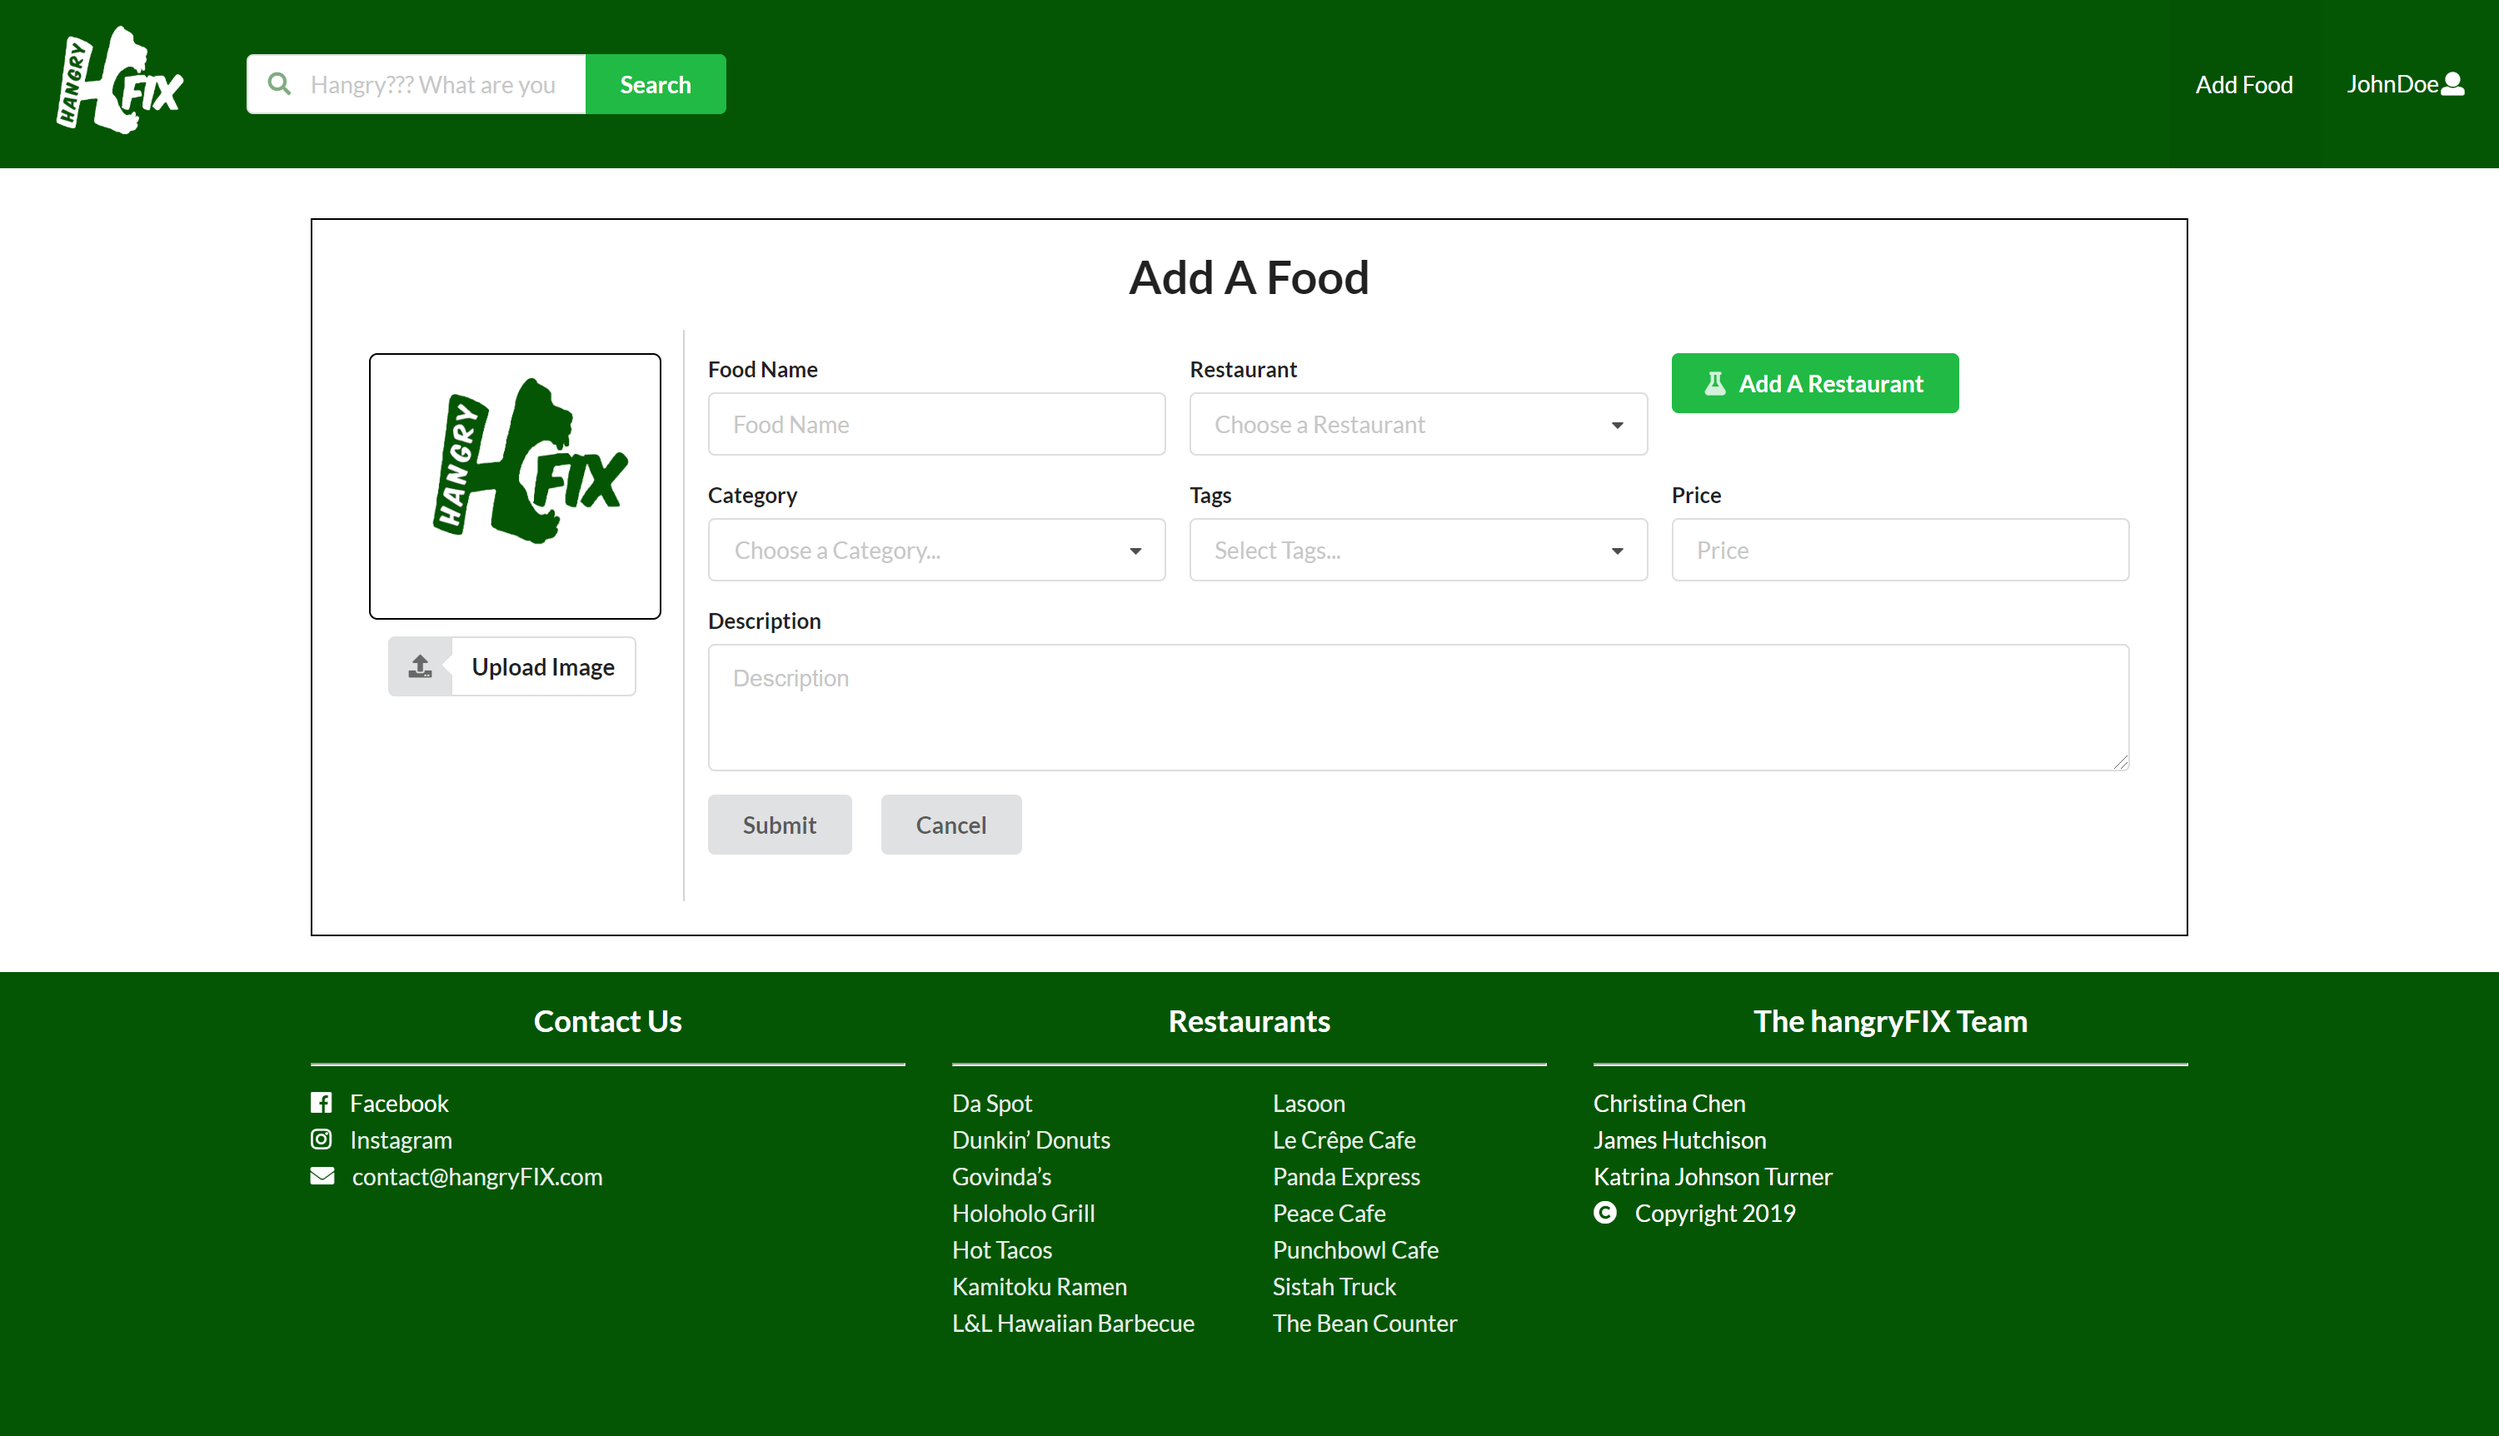
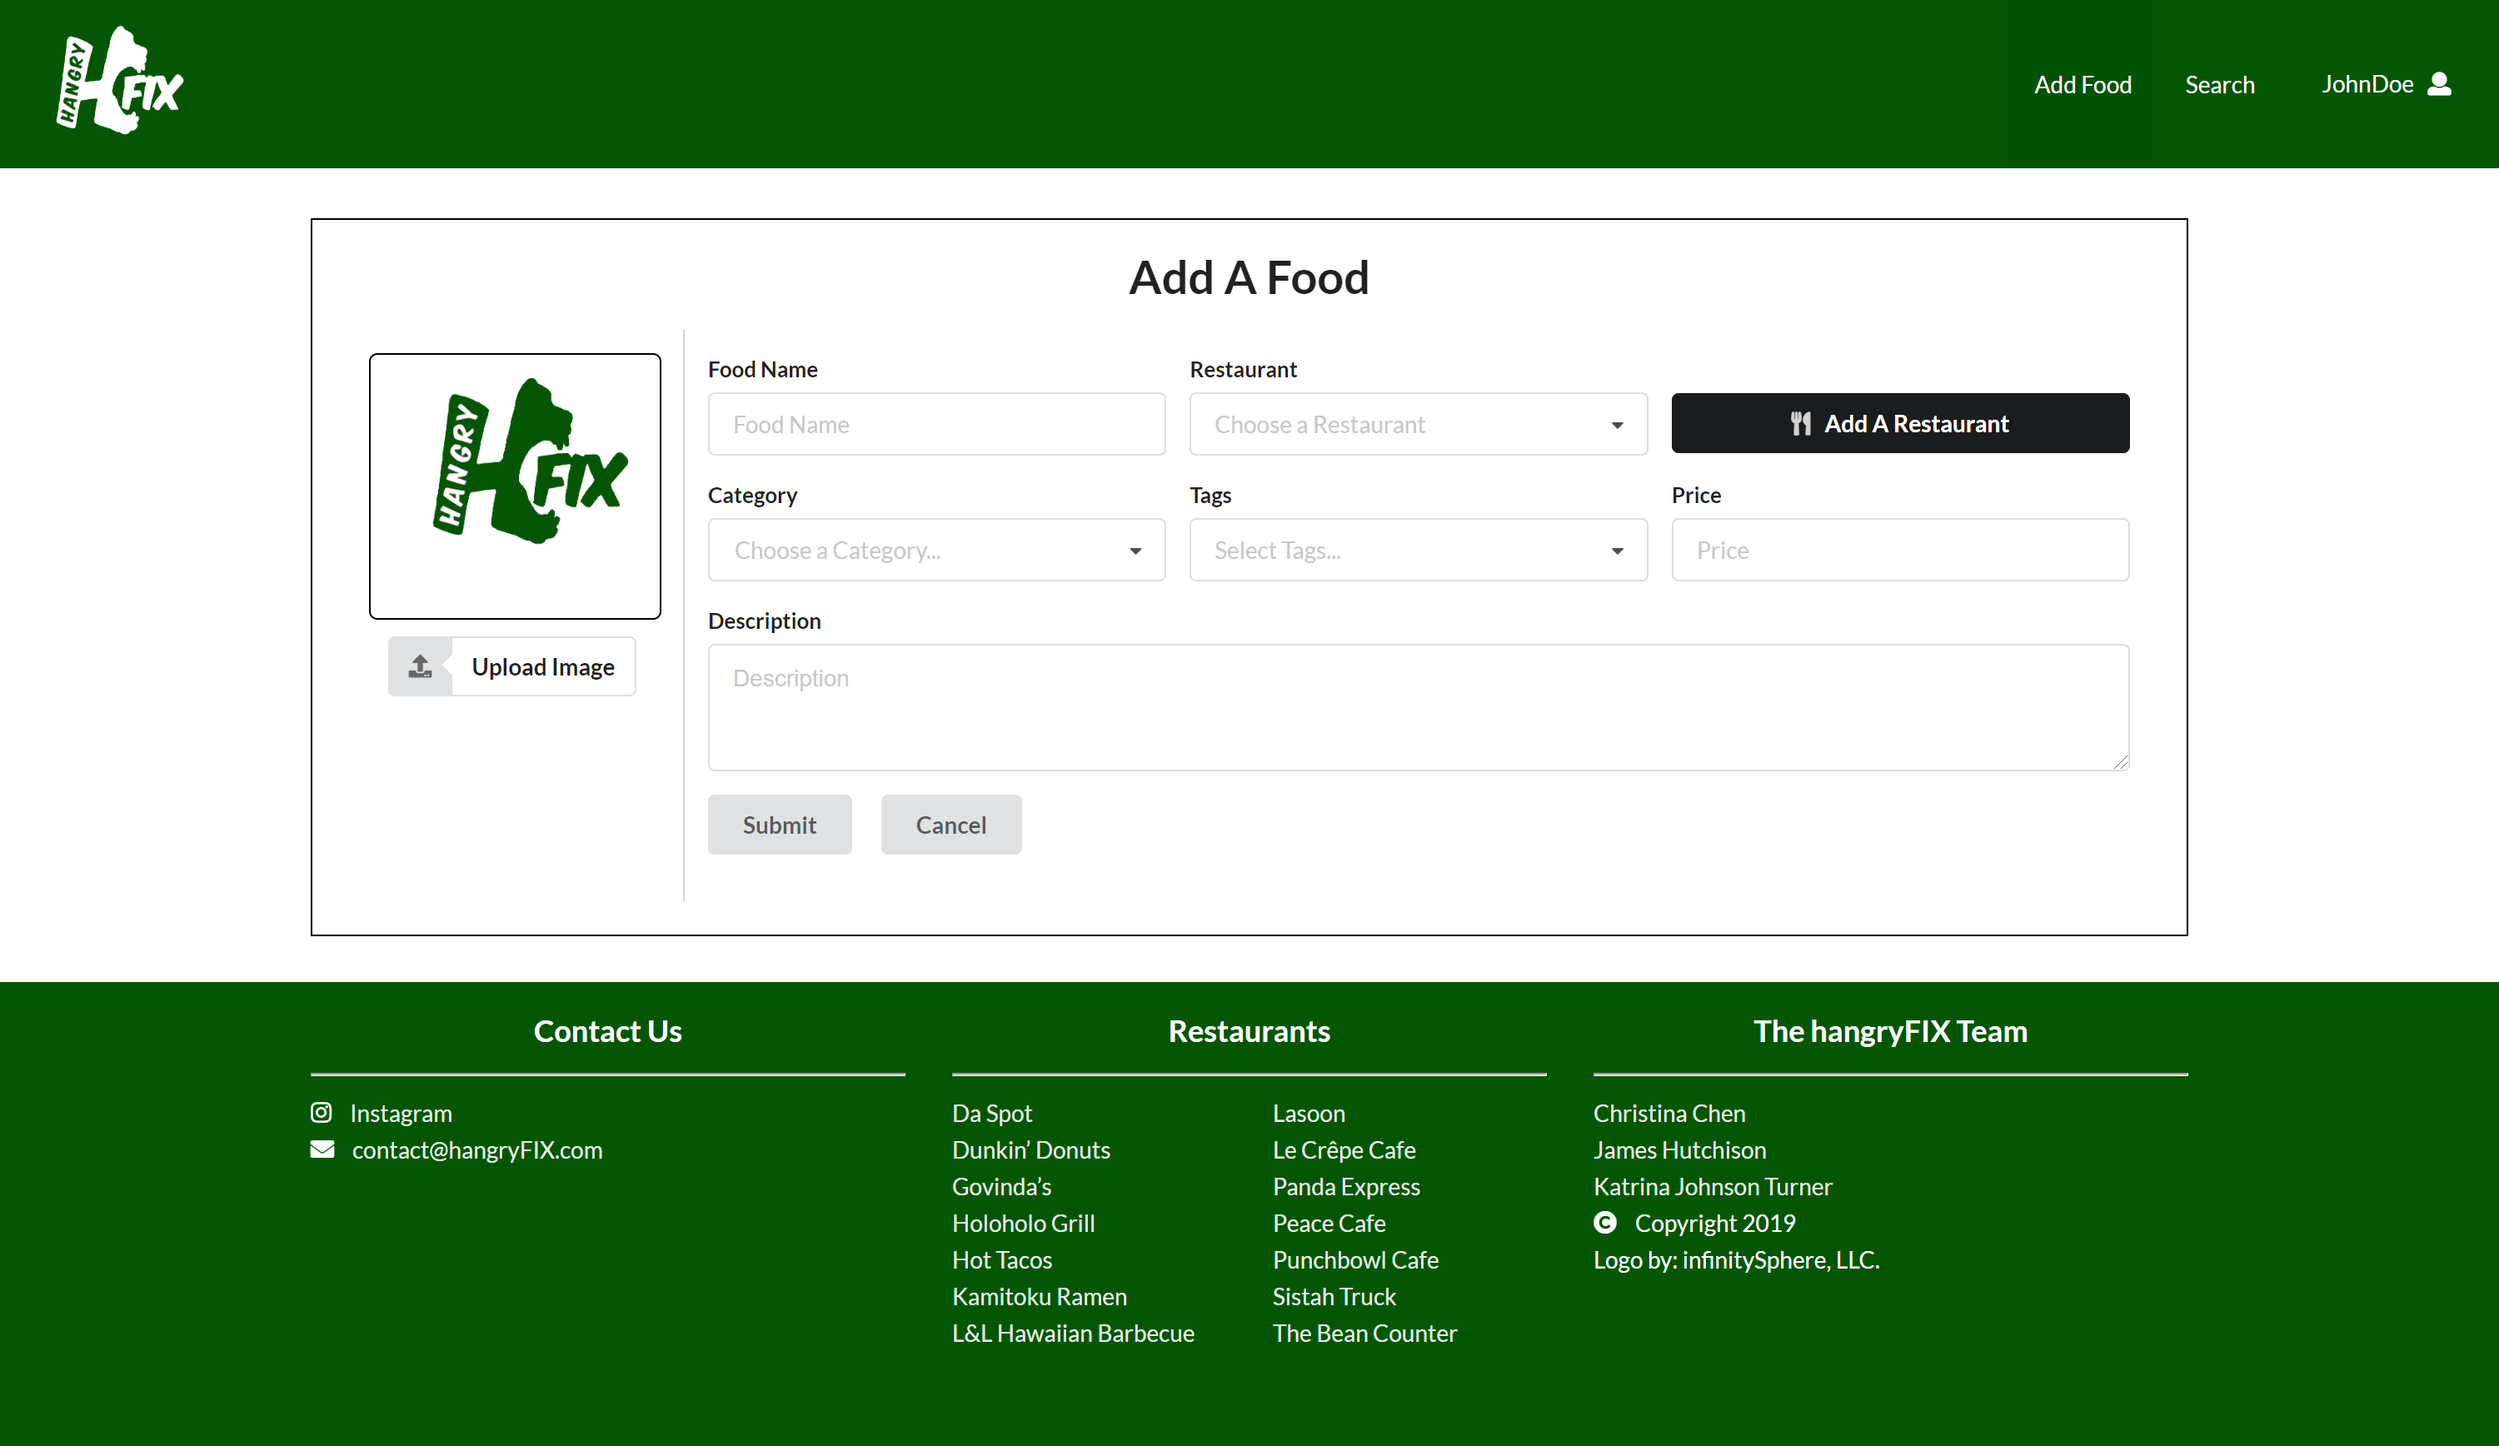
updated user guide section

diff --git a/index.md b/index.md
@@ -24,7 +24,6 @@
 <img style="width: 80%" src="doc/hf-landing2.png">
 <p>There are many restaurant review sites (i.e. Yelp), but students often crave a specific food item rather than a genre or restaurant.</p> 
 <p>hangryFIX is a way for UHM students to publicize, rate, and search for specific food items. Ratings will revolve around food items rather than overall restaurant quality, service, etc.</p>
-<p>Users can also allow email and SMS notifications on their account on new locations for selected foods.</p>
 <div>
 <a href="http://hangryfix.meteorapp.com/#/"><button>Go to App</button></a>
 <a href="https://github.com/hangryfix/hangryfix/projects"><button>Go to Project Board</button></a>
@@ -38,7 +37,7 @@
 
 <h3 id="landingPage">Landing Page</h3>
 <img style="width: 80%" src="doc/hf-landing.png">
-<p>The landing page will displays recent food items and their ratings, and it will also explain the purpose and mission of the site.  To prevent hangryness. From here, users can use the Nav Bar to log in, register, and do a quick search of the foods by category.</p>
+<p>The landing page displays the three most recent food items along with their reviews along the purpose and goal--essentially, to prevent hangryness--of this application. Through the navigation bar, users can log in to their accounts and register for one. Any visitor to the site can start searching for foods from the landing page by clicking on the respective icon for a food category they're currently hangry for.</p>
 <a href="http://hangryfix.meteorapp.com/#/"><button>Go to page</button></a>
 <br>
 
@@ -46,36 +45,36 @@
 <img style="width: 45%" src="doc/hf_register.png">
 <img style="width: 45%" src="doc/hf_signin.png">
 
-<p>Before users can add foods or leave reviews, they must create an account.  They can add tags associated with their favorite foods to help customize their account page.</p>
-<p>After that, users will need just their email address and password to sign in to their accounts.</p>
+<p>Before users can add foods, leave reviews, and "bookmark" certain foods, they are required to sign in to their accounts or to register for a new one. During registration, they can add tags associated with their favorite foods to help customize their account page. After that, users will need just their email address and password to sign in to their accounts.</p>
 <a href="http://hangryfix.meteorapp.com/#/signup"><button>Go to Register page</button></a>     
 <a href="http://hangryfix.meteorapp.com/#/signin"><button>Go to Signin page</button></a>
 <br>
 
 
 <h3 id="userHomePage">Your Account Page</h3>
-<img style="width: 70%" src="doc/hf_your_account.png">
-<p>Users have a personalized page with 3 tabs for easy food finding.  The first tab shows new foods associated with the tags they "favorited."  The second tab shows the 9 newest foods recently added to the hangryFIX site.  And the third tab shows them all their previous reviews so they can easily find those foods again and edit their reviews if they need to.
+<img style="width: 70%" src="doc/hf_your_account_tags.png">
+<img style="width: 70%" src="doc/hf_your_account_reviews.png">
+<p>Users have a personalized page with 3 tabs for easy food finding. The first tab shows the 9 newest foods recently added to the hangryFIX site. The second tab shows new foods associated with the tags they "favorited." And the third tab shows them all their previous reviews so they can easily find those foods again and edit their reviews if they need to.
 </p>
 <a href="http://hangryfix.meteorapp.com/#/yourAccount"><button>Go to page</button></a>
 <br>
 
 <h3 id="searchPage">Search Page</h3>
 <img style="width: 70%" src="doc/hf_search.png">
-<p>The search page is one of the most important pages in the application.  From here, users can find foods that have been added to the app based on their food categories. They can filter foods by what is most important to them, rating, price, etc.</p>
+<p>The search page is one of the most important pages in the application. This page is accessible through the icons provided for each food category on the landing page and through the navigation bar. From here, users can find foods that have been added to the app based on their food categories. They can filter foods by what is most important to them with the options of by rating, price range, and currently open restaurants.</p>
 <a href="http://hangryfix.meteorapp.com/#/search"><button>Go to page</button></a>
 <br>
 
 <h3 id="addFoodPage">Add Food Page</h3>
 <img style="width: 70%" src="doc/hf_add_food.png">
-<p>All users with an account can add a new food item to the database. Available information the user can add about that food is name, image by URL, restaurant and its hours, price, and a brief description. Users can also add new restaurants here if they aren't available.</p>
+<p>All users with an account can add a new food item to the database. Available information the user can add about that food is name, image by URL, restaurant and its hours, price, and a brief description. If no image URL is provided, the default image of the hangryFIX logo will be featured. Users can also add new restaurants here if they aren't available. In addition, admins are able to view which users added which foods across the site.</p>
 <a href="http://hangryfix.meteorapp.com/#/addFood"><button>Go to page</button></a>
 <br>
 
 <h3 id="addingEditingReviews">Adding/Editing Reviews</h3>
 <img style="width: 50%" src="doc/hf_edit_review.png">
 <img style="width: 50%" src="doc/hf_reviews.png">
-<p>Users can add a review for a food item they have eaten before if that has already been added to the database. (Otherwise they need to first add the food).  They can also go back and edit that review at anytime.</p>
+<p>Users can add a review for a food item they have eaten before if that has already been added to the database. (Otherwise they need to first add the food).  They can also go back and edit that review at anytime or delete the review. Like when adding foods, 1) if no image URL is provided, the default image of the hangryFIX logo will be featured in the review, and 2) admins are able to view which users wrote which reviews across the site.</p>
 
 <h3 id="adminPage">Admin Page</h3>
 <img style="width: 70%" src="doc/hf_admin.png">
